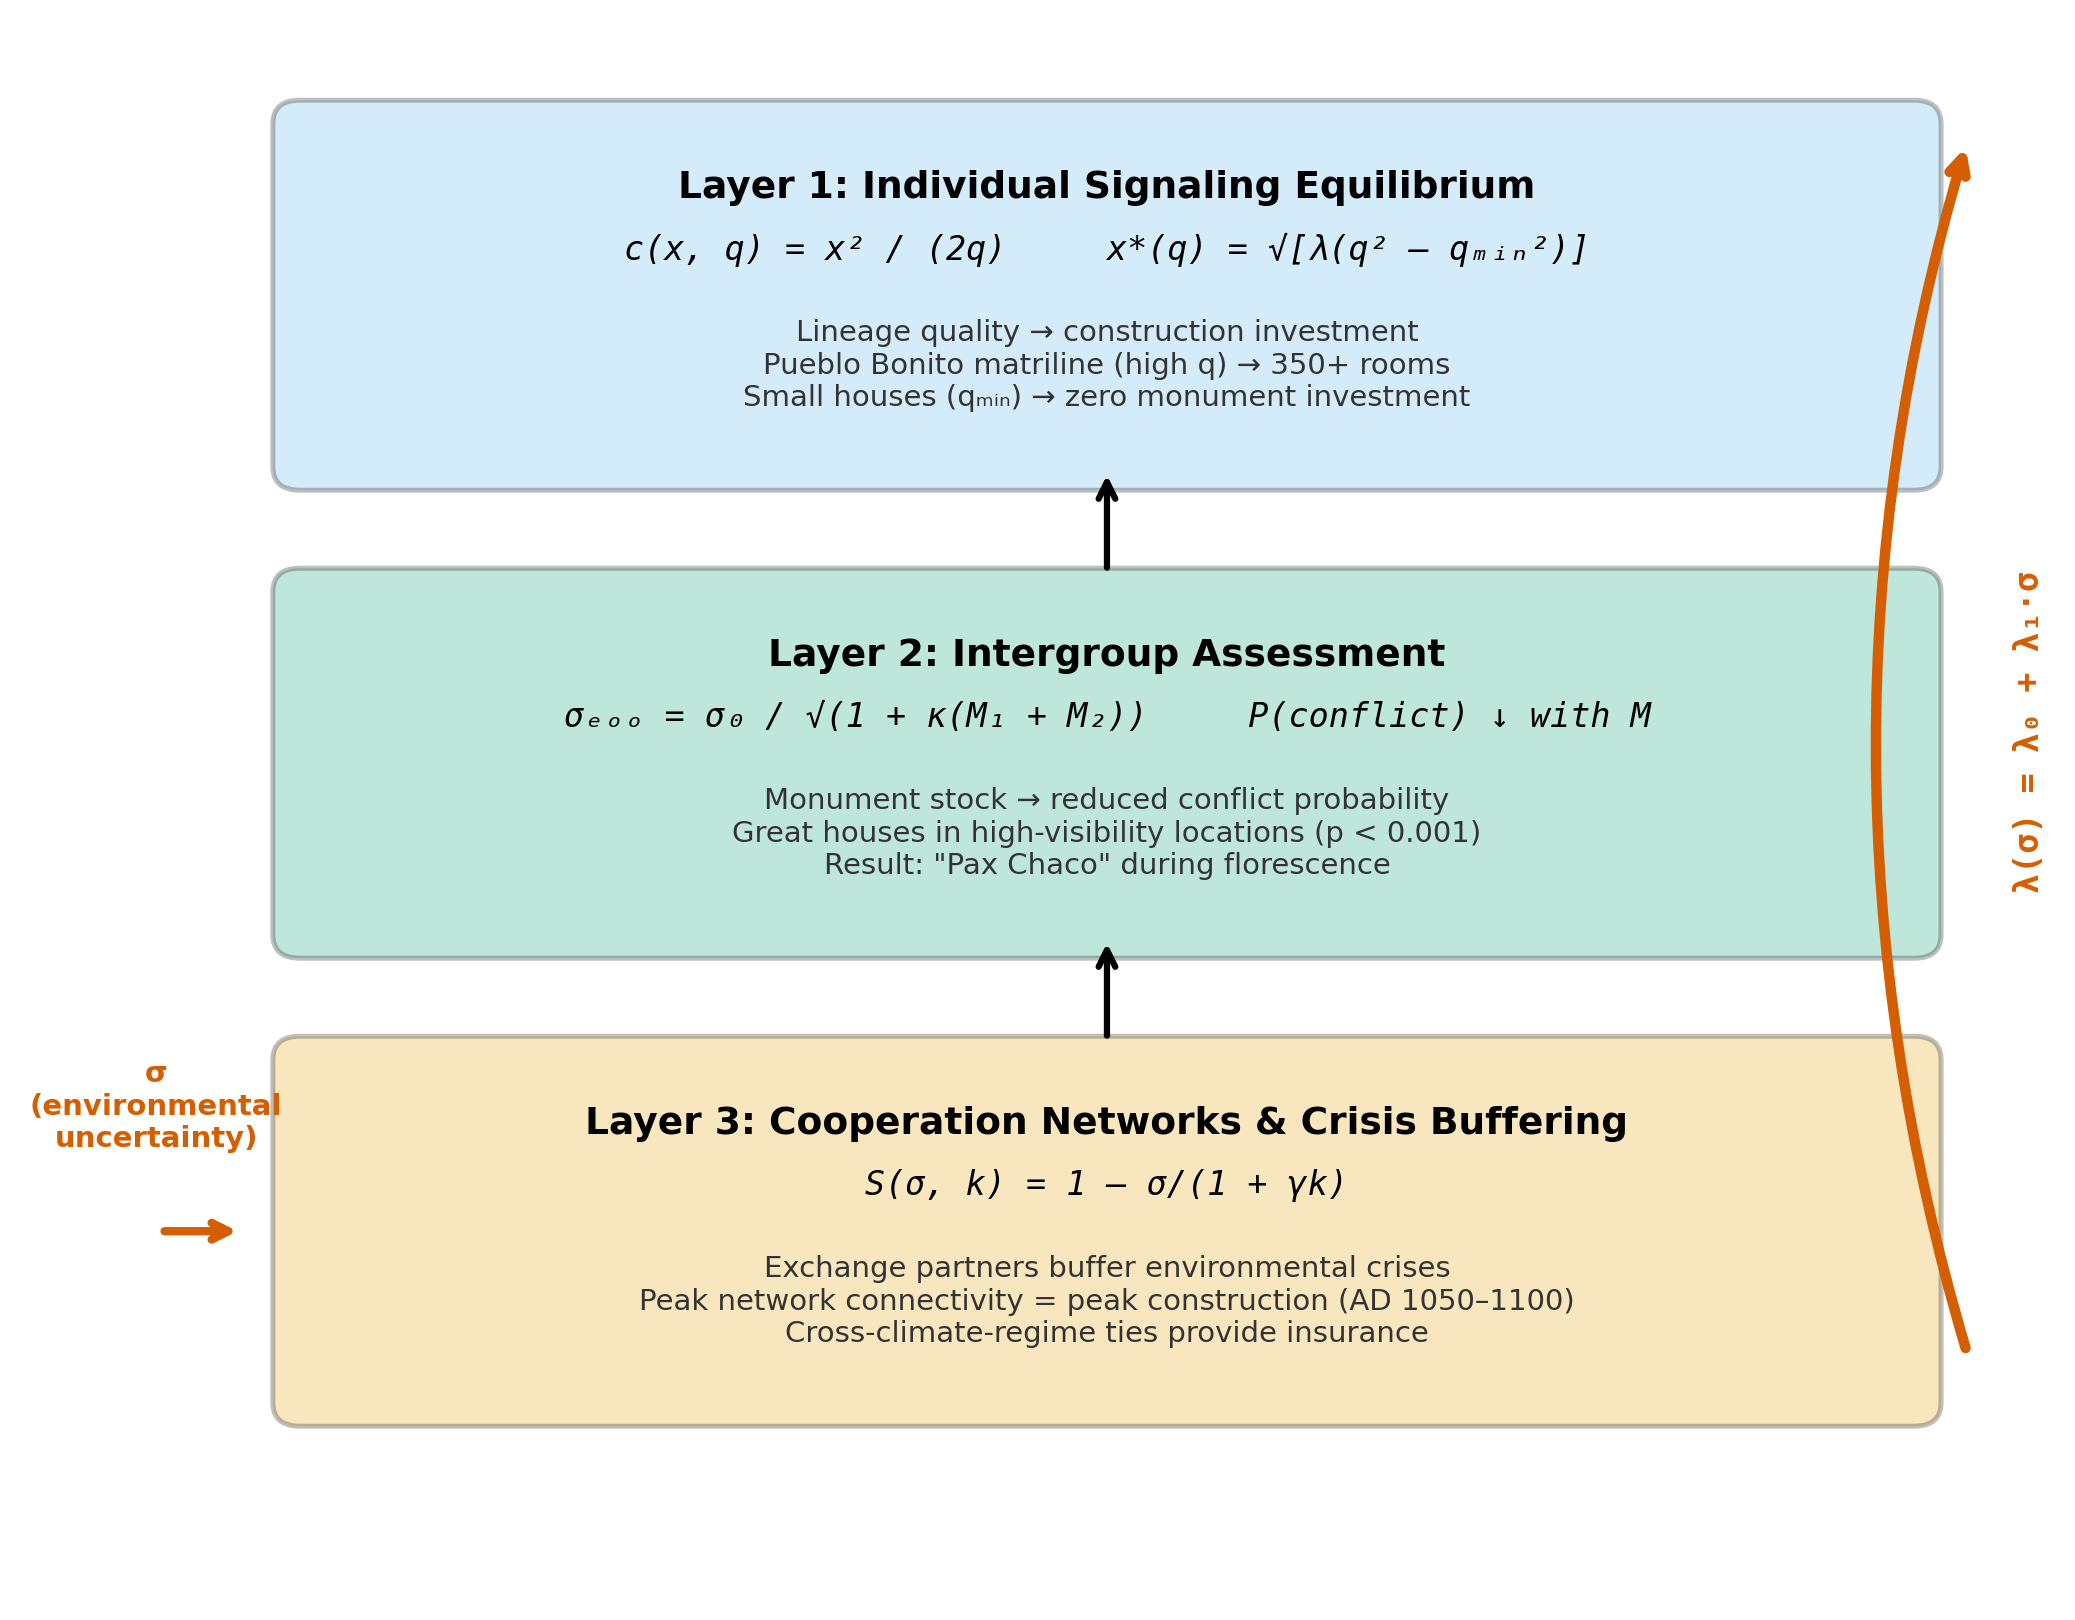
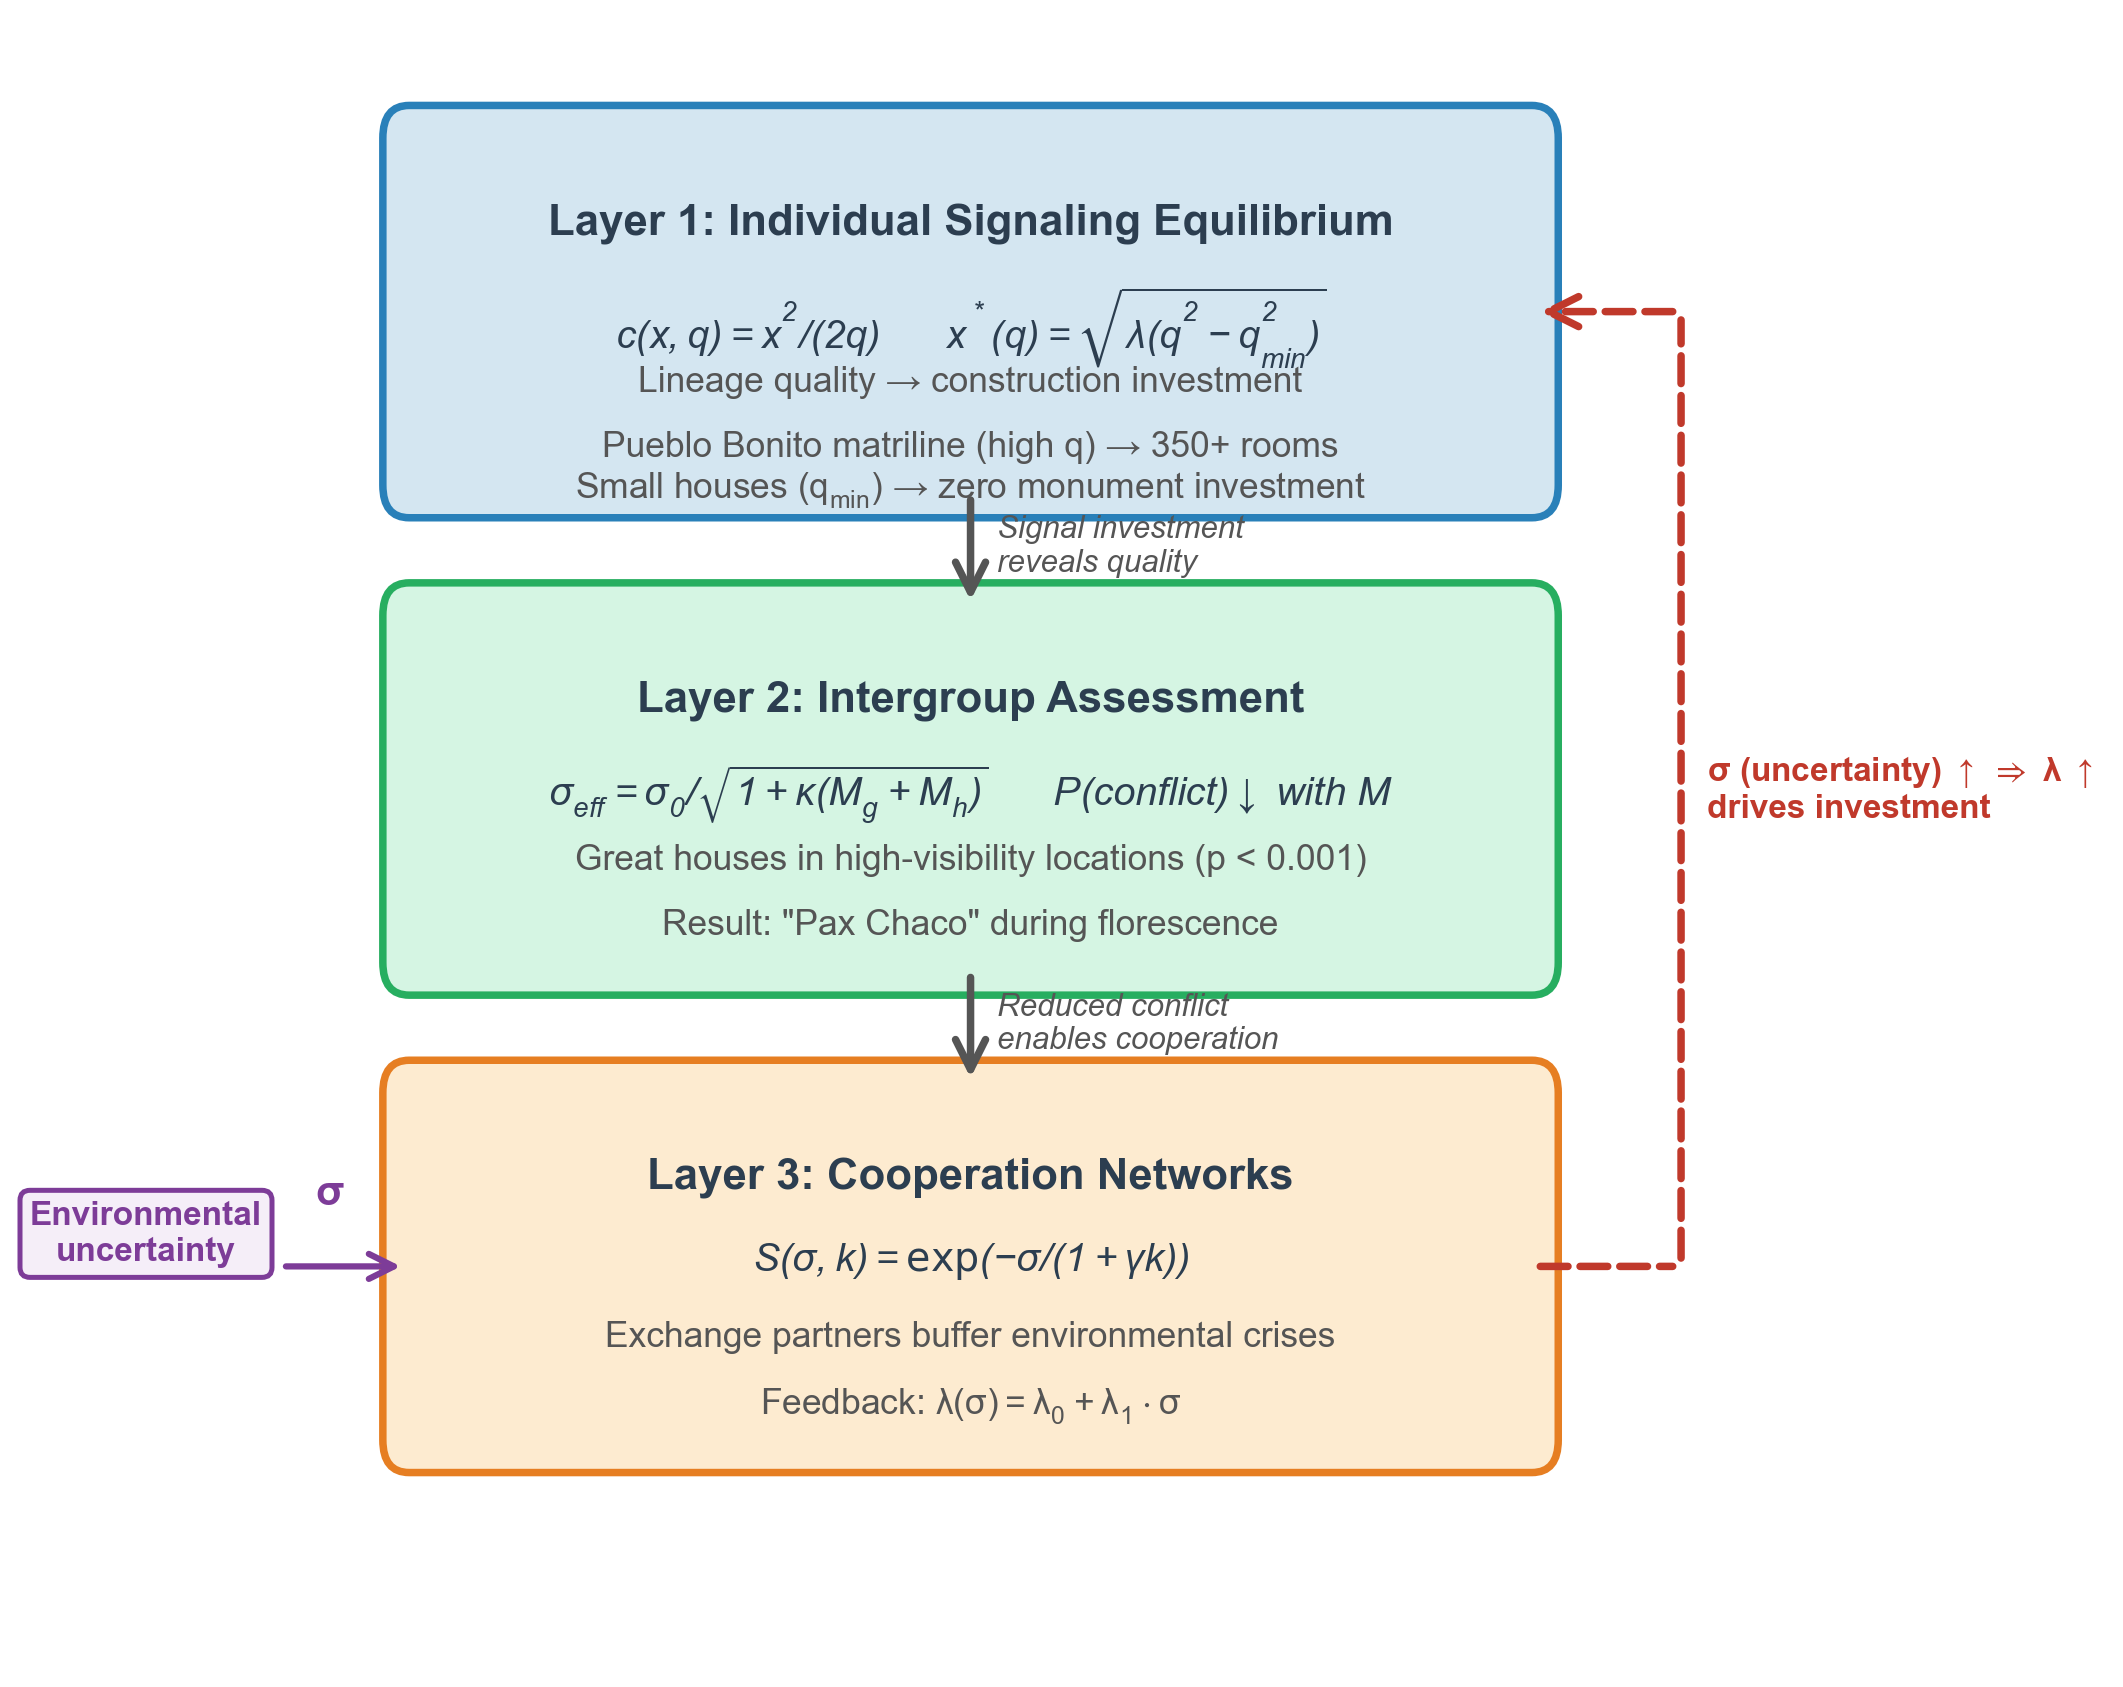
Fix Figure 2 (correct survival function equation) and Figure 6 (label spacing)
Figure 2: Updated Layer 3 equation from old linear form S=1-sigma/(1+gamma*k)
to corrected exponential S=exp(-sigma/(1+gamma*k)). Added x*(q) equation to
Layer 1 and sigma_eff equation to Layer 2. Added small-house q_min reference.

Figure 6: Shortened period labels to avoid text overlap on panels b/c/d.

Changed region(s): [[0.0, 0.0617, 0.987, 0.8951]]

diff --git a/scripts/create_figure_2_three_layer_model.py b/scripts/create_figure_2_three_layer_model.py
@@ -86,21 +86,21 @@ layer3_y = 1.0
 draw_layer_box(ax, box_x, layer1_y, box_w, box_h,
                color_layer1, border_layer1,
                "Layer 1: Individual Signaling Equilibrium",
-               r"$c(x,q) = x^2 / (2q)$",
+               r"$c(x, q) = x^2 / (2q)$      $x^*(q) = \sqrt{\lambda(q^2 - q_{min}^2)}$",
                "Lineage quality \u2192 construction investment",
-               "Pueblo Bonito matriline (high q) \u2192 350+ rooms")
+               "Pueblo Bonito matriline (high q) \u2192 350+ rooms\nSmall houses ($q_{min}$) \u2192 zero monument investment")
 
 draw_layer_box(ax, box_x, layer2_y, box_w, box_h,
                color_layer2, border_layer2,
                "Layer 2: Intergroup Assessment",
-               "Monument stock \u2192 reduced conflict probability",
-               "High-visibility placement, acoustic broadcast",
-               'Result: "Pax Chaco"')
+               r"$\sigma_{eff} = \sigma_0 / \sqrt{1 + \kappa(M_g + M_h)}$      $P(conflict) \downarrow$ with $M$",
+               "Great houses in high-visibility locations (p < 0.001)",
+               'Result: "Pax Chaco" during florescence')
 
 draw_layer_box(ax, box_x, layer3_y, box_w, box_h,
                color_layer3, border_layer3,
                "Layer 3: Cooperation Networks",
-               r"$S(\sigma, k) = 1 - \sigma / (1 + \gamma k)$",
+               r"$S(\sigma, k) = \exp(-\sigma / (1 + \gamma k))$",
                "Exchange partners buffer environmental crises",
                r"Feedback: $\lambda(\sigma) = \lambda_0 + \lambda_1 \cdot \sigma$")
 

diff --git a/scripts/create_figure_6_updated.py b/scripts/create_figure_6_updated.py
@@ -25,10 +25,10 @@ COLORS = {
 }
 
 PERIODS = {
-    'Pre-Chaco\n(750-850)': (750, 850),
-    'Early Bonito\n(850-1020)': (850, 1020),
-    'Classic Bonito\n(1020-1130)': (1020, 1130),
-    'Late Bonito\n(1130-1200)': (1130, 1200),
+    'Pre-Chaco': (750, 850),
+    'Early\nBonito': (850, 1020),
+    'Classic\nBonito': (1020, 1130),
+    'Late\nBonito': (1130, 1200),
 }
 
 PERIOD_COLORS = [COLORS['cyan'], COLORS['green'], COLORS['orange'], '#CC79A7']
